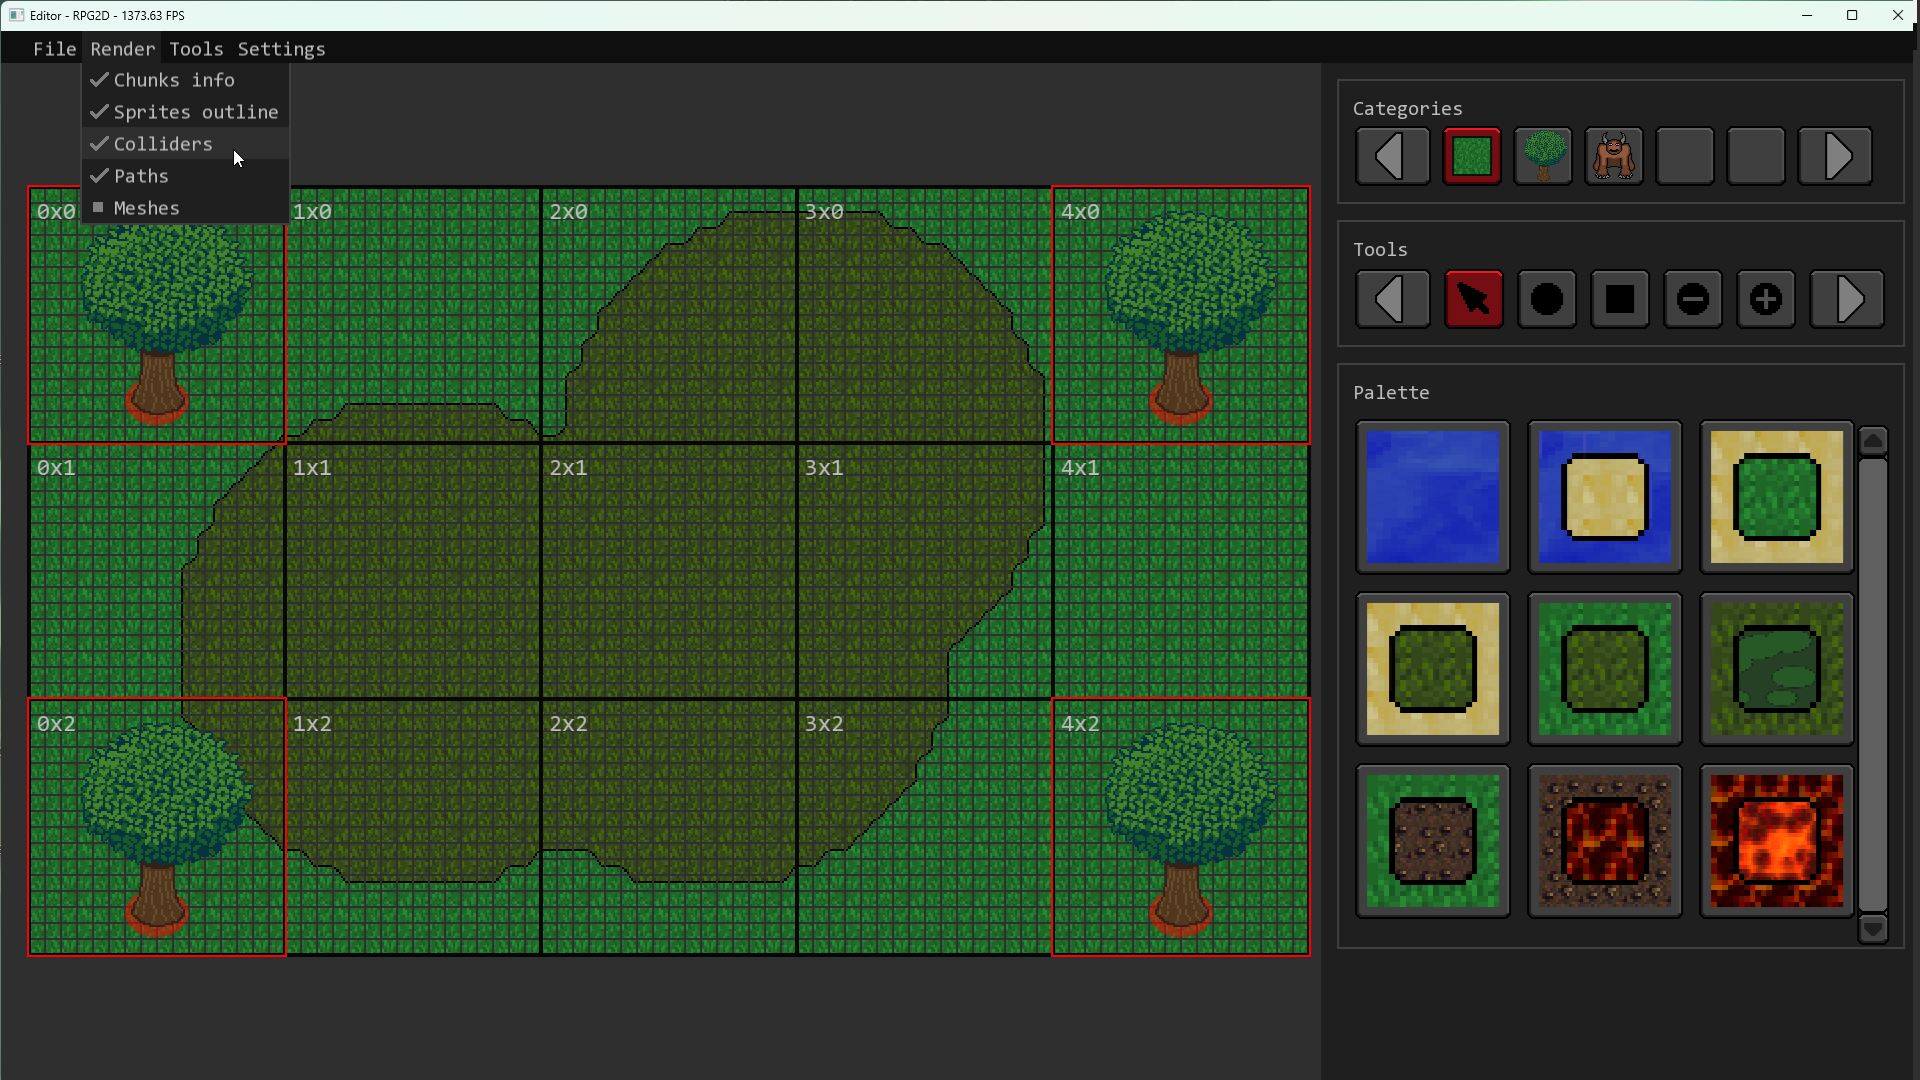
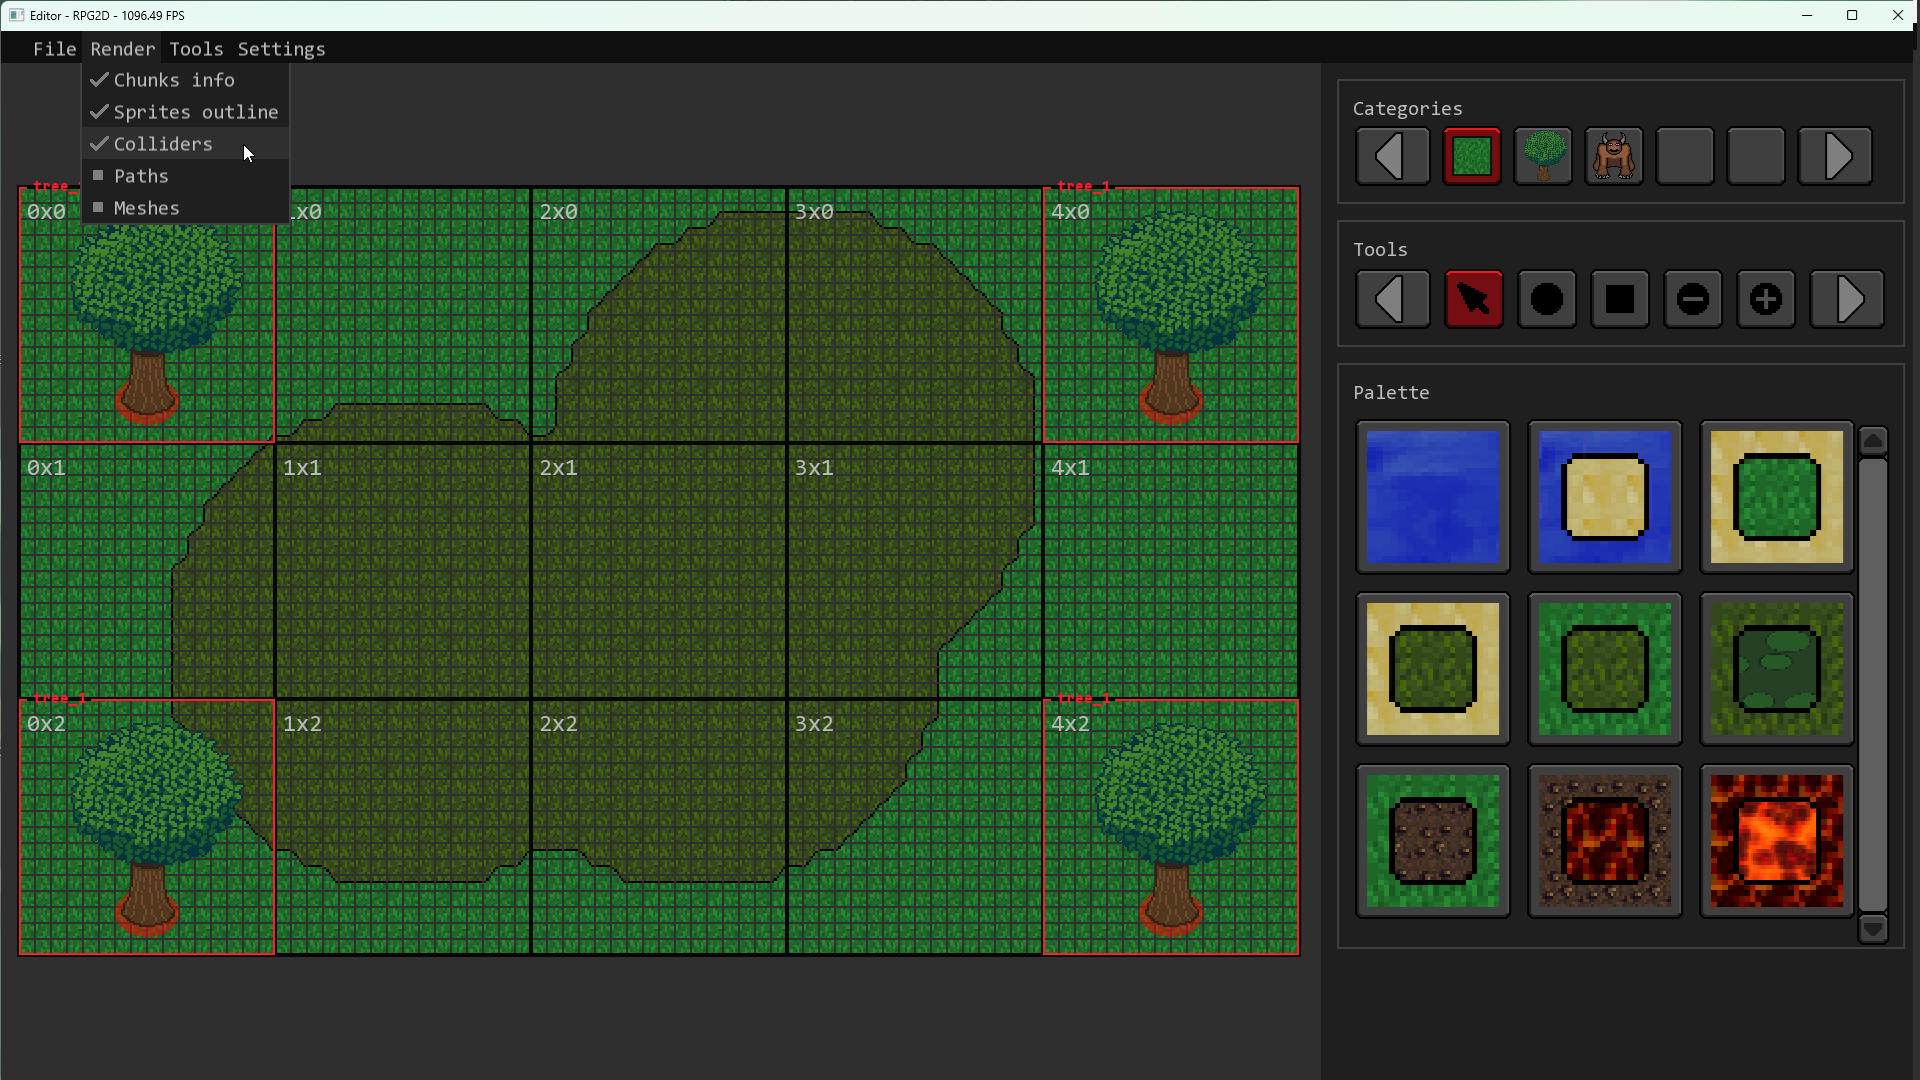
Add - New Frames For Drawing Sprite Outline

Changed region(s): [[0.0, 0.1528, 0.6875, 0.8861], [0.9062, 0.7333, 0.9688, 0.825], [0.9062, 0.5806, 0.9688, 0.6722]]

diff --git a/Editor-RPG2D/src/Editors/MapEditor/Map/GameObjectOnMap.cpp b/Editor-RPG2D/src/Editors/MapEditor/Map/GameObjectOnMap.cpp
@@ -4,6 +4,7 @@
 #include "Editors/MapEditor/Editor.hpp"
 #include "DebugLog.hpp"
 #include "Animator.hpp"
+#include "Theme.hpp"
 
 GameObjectOnMap::GameObjectOnMap(std::shared_ptr<GameObject> prefab) : Object() {
 	_prefab = prefab;
@@ -13,6 +14,92 @@ GameObjectOnMap::GameObjectOnMap(std::shared_ptr<GameObject> prefab) : Object() 
 
 GameObjectOnMap::~GameObjectOnMap() {
 
+}
+
+void GameObjectOnMap::drawFrame() {
+
+	int x, y, w, h;
+
+	if (_prefab->getAnimations()) {
+		w = _prefab->getAnimations()->getFrameRect(0, 0).size.x;
+		h = _prefab->getAnimations()->getFrameRect(0, 0).size.y;
+		x = _position.x;
+		y = _position.y;
+
+		if (_prefab->_type == ObjectType::Monster) {
+			x -= _prefab->getOrigin().x;
+			y -= _prefab->getOrigin().y;
+		}
+	}
+	else {
+
+		x = _position.x;
+		y = _position.y;
+		w = 96;
+		h = 96;
+
+		if (_prefab->getCollider()->_type == ColliderType::Circular) {
+			std::shared_ptr<CircularCollider> circularCollider = std::dynamic_pointer_cast<CircularCollider>(_prefab->getCollider());
+			w = circularCollider->_radiusX * 2;
+			w += circularCollider->_radiusY;
+			if (w < 96) w = 96;
+			h = w;
+			x = _position.x - w / 2;
+			y += circularCollider->_radiusY - h;
+		}
+		else {
+			std::shared_ptr<RectangularCollider> rectangularCollider = std::dynamic_pointer_cast<RectangularCollider>(_prefab->getCollider());
+			w = rectangularCollider->_rect.size.x;
+			w += rectangularCollider->_rect.size.y;
+			if (w < 96) w = 96;
+			h = w;
+			x = _position.x - w / 2;
+			y += rectangularCollider->_rect.size.y / 2 - h;
+		}
+	}
+
+	float thickness = 2.f;
+	float paddingLeft = 14.f;
+	float textPadding = 6.f;
+
+	sf::Color color = sf::Color(255, 30, 45);
+
+	sf::Text text(basicFont, _prefab->getName(), 14);
+	text.setFillColor(color);
+	text.setStyle(sf::Text::Bold);
+	text.setPosition(sf::Vector2f(x + paddingLeft, y - 10));
+
+	auto bounds = text.getLocalBounds();
+
+	float gapStart = paddingLeft - textPadding;
+	float gapEnd = paddingLeft + bounds.size.x + textPadding;
+
+	sf::RectangleShape topLeft(sf::Vector2f(gapStart, thickness));
+	topLeft.setPosition(sf::Vector2f(x, y));
+	topLeft.setFillColor(color);
+
+	sf::RectangleShape topRight(sf::Vector2f(w - gapEnd, thickness));
+	topRight.setPosition(sf::Vector2f(x + gapEnd, y));
+	topRight.setFillColor(color);
+
+	sf::RectangleShape left(sf::Vector2f(thickness, h));
+	left.setPosition(sf::Vector2f(x, y));
+	left.setFillColor(color);
+
+	sf::RectangleShape right(sf::Vector2f(thickness, h));
+	right.setPosition(sf::Vector2f(x + w - thickness, y));
+	right.setFillColor(color);
+
+	sf::RectangleShape bottom(sf::Vector2f(w, thickness));
+	bottom.setPosition(sf::Vector2f(x, y + h - thickness));
+	bottom.setFillColor(color);
+
+	window->draw(topLeft);
+	window->draw(topRight);
+	window->draw(left);
+	window->draw(right);
+	window->draw(bottom);
+	window->draw(text);
 }
 
 void GameObjectOnMap::setPosition(sf::Vector2i position) {
@@ -32,15 +119,11 @@ void GameObjectOnMap::draw() {
 	}
 
 	std::shared_ptr<Animations> animations = _animator->getAnimations();
+
 	sf::IntRect frameRect = animations->getFrameRect(0,0);
 
 	if (MapEditor::editor->_main_menu->_render_sprites_outline->_checkbox->_value == 1) {
-		sf::RectangleShape outlineRect(sf::Vector2f(frameRect.size));
-		outlineRect.setPosition(sf::Vector2f(_position));
-		outlineRect.setFillColor(sf::Color::Transparent);
-		outlineRect.setOutlineThickness(2);
-		outlineRect.setOutlineColor(sf::Color::Red);
-		window->draw(outlineRect);
+		drawFrame();
 	}
 
 	sf::Sprite sprite(*animations->getTexture()->_texture);

diff --git a/Editor-RPG2D/src/Objects/Monster.cpp b/Editor-RPG2D/src/Objects/Monster.cpp
@@ -119,16 +119,16 @@ void Monster::draw() {
 	
 
 	std::shared_ptr<Animations> anim = _animator->getAnimations();
+	
+	if (!anim) {
+		drawFrame();
+		return;
+	}
+
 	sf::IntRect frameRect = anim->getFrameRect(_animator->_animation, _animator->_frame);
 
 	if (MapEditor::editor->_main_menu->_render_sprites_outline->_checkbox->_value == 1) {
-		sf::RectangleShape outlineRect(sf::Vector2f(frameRect.size));
-		outlineRect.setPosition(sf::Vector2f(_position));
-		outlineRect.setOrigin(sf::Vector2f(_prefab->getOrigin()));
-		outlineRect.setFillColor(sf::Color::Transparent);
-		outlineRect.setOutlineThickness(2);
-		outlineRect.setOutlineColor(sf::Color::Red);
-		window->draw(outlineRect);
+		drawFrame();
 	}
 
 	sf::Sprite sprite(*anim->getTexture()->_texture);

diff --git a/Editor-RPG2D/src/Animator.cpp b/Editor-RPG2D/src/Animator.cpp
@@ -16,6 +16,9 @@ Animator::~Animator() {
 
 void Animator::setAnimation(int animation) {
 
+	if(_animations.expired())
+		return;
+
 	if (animation < 0 || animation >= _animations.lock()->_animationsCount)
 		return;
 
@@ -57,6 +60,9 @@ void Animator::prevFrame() {
 }
 
 void Animator::nextFrame() {
+
+	if (_animations.expired())
+		return;
 
 	_frame++;
 	if (_frame >= _animations.lock()->_framesCount)

diff --git a/Editor-RPG2D/src/Editors/AnimationsEditor/ActionsPanel.cpp b/Editor-RPG2D/src/Editors/AnimationsEditor/ActionsPanel.cpp
@@ -76,8 +76,8 @@ namespace AnimationsEditor {
 			int animationID = editor->_list_panel->_selectedItemIndex;
 			if (animationID >= 0) {
 
-				MapEditor::editor->_game_objects->removePrefabsByAnimations(animationID);
-				prefabs_manager->removePrefabsByAnimations(animationID);
+				//MapEditor::editor->_game_objects->removePrefabsByAnimations(animationID);
+				//prefabs_manager->removePrefabsByAnimations(animationID);
 				animations_manager->removeAnimations(animationID);
 
 				editor->_list_panel->loadAll();

diff --git a/Editor-RPG2D/include/Editors/MapEditor/Map/GameObjectOnMap.hpp b/Editor-RPG2D/include/Editors/MapEditor/Map/GameObjectOnMap.hpp
@@ -11,6 +11,9 @@ public:
 
 	GameObjectOnMap(std::shared_ptr<GameObject> prefab);
 	~GameObjectOnMap();
+
+	void drawFrame();
+
 	virtual void setPosition(sf::Vector2i position);
 	virtual void update();
 	virtual void draw();